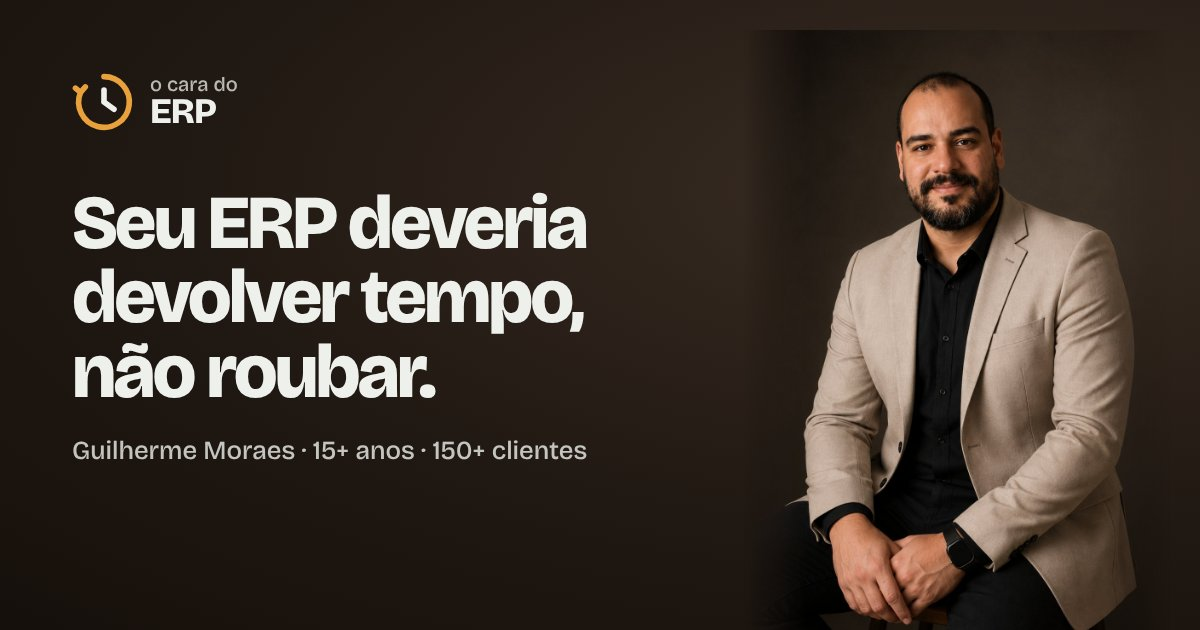
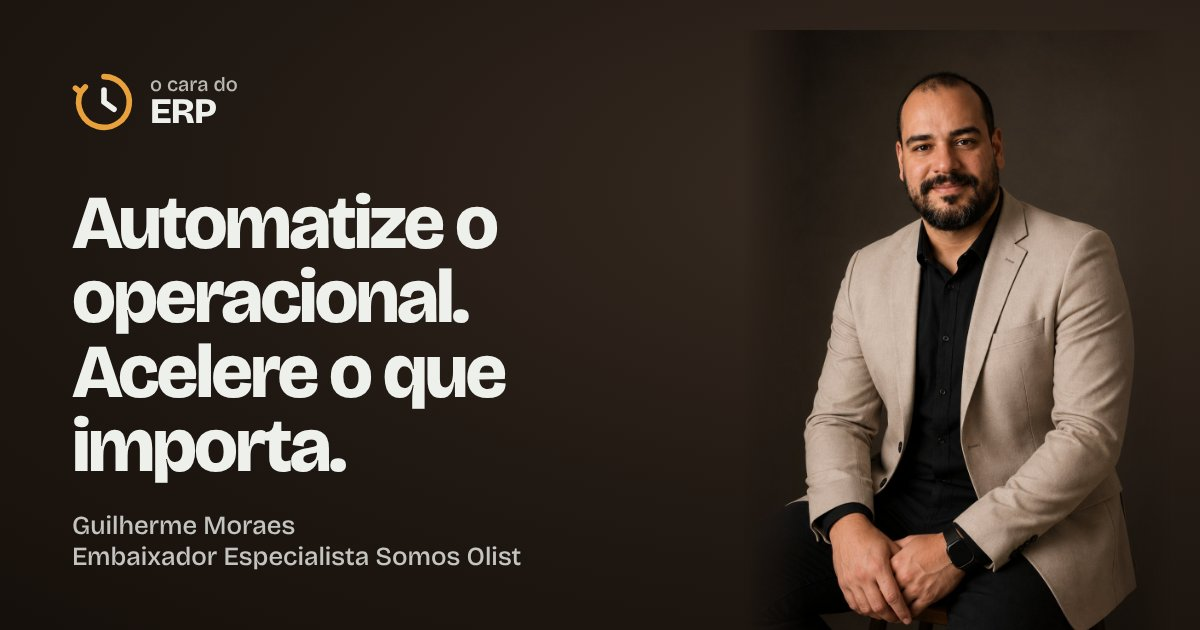
Add files via upload

diff --git a/index.html b/index.html
@@ -7,14 +7,14 @@
 <meta charset="utf-8">
 <meta name="viewport" content="width=device-width, initial-scale=1">
 <title>O Cara do ERP · Guilherme Moraes | Implantação e migração de ERP, lojas virtuais e marketplaces</title>
-<meta name="description" content="Guilherme Moraes, O Cara do ERP: mais de 15 anos e 150 clientes em implantação, migração, parametrização e treinamento de ERP, lojas virtuais e marketplaces. Parceiro Certificado e Embaixador Somos Olist.">
+<meta name="description" content="Guilherme Moraes, O Cara do ERP: mais de 15 anos e 150 clientes em implantação, migração, parametrização e treinamento de ERP, lojas virtuais e marketplaces. Parceiro Certificado e Embaixador Especialista Somos Olist.">
 <link rel="canonical" href="https://www.ocaradoerp.com.br/">
 <meta name="theme-color" content="#201812">
 <meta property="og:type" content="website">
 <meta property="og:locale" content="pt_BR">
 <meta property="og:url" content="https://www.ocaradoerp.com.br/">
 <meta property="og:title" content="O Cara do ERP · Guilherme Moraes">
-<meta property="og:description" content="Guilherme Moraes, O Cara do ERP: mais de 15 anos e 150 clientes em implantação, migração, parametrização e treinamento de ERP, lojas virtuais e marketplaces. Parceiro Certificado e Embaixador Somos Olist.">
+<meta property="og:description" content="Guilherme Moraes, O Cara do ERP: mais de 15 anos e 150 clientes em implantação, migração, parametrização e treinamento de ERP, lojas virtuais e marketplaces. Parceiro Certificado e Embaixador Especialista Somos Olist.">
 <meta property="og:image" content="https://www.ocaradoerp.com.br/assets/img/og-ocaradoerp.jpg">
 <meta property="og:image:width" content="1200">
 <meta property="og:image:height" content="630">
@@ -153,7 +153,6 @@
     <nav aria-label="Principal">
       <a href="#servicos">Serviços</a>
       <a href="#por-que-olist">Sistema ERP da Olist</a>
-      <a href="#kit">Kit de teste</a>
       <a href="#comunidade">Comunidade</a>
       <a class="btn btn-zap" href="https://wa.me/5516999864902" data-zap="topo"><svg aria-hidden="true"><use href="#i-zap"/></svg>Fale comigo</a>
     </nav>
@@ -164,9 +163,19 @@
   <section class="hero" style="padding:0">
     <div class="wrap">
       <div class="hero-texto">
+        <p class="titulo-parceiro"><svg aria-hidden="true" viewBox="0 0 24 24"><path d="M5 12.5l4.2 4.2L19 7" fill="none" stroke="currentColor" stroke-width="2.6" stroke-linecap="round" stroke-linejoin="round"/></svg>Embaixador Especialista Somos Olist</p>
+        <div class="frases" data-banner>
+          <h1 class="frase ativa">Automatize o operacional. Acelere o que importa.</h1>
+          <p class="frase" aria-hidden="true">Seu ERP no automático. Seu time focado em vender.</p>
+          <p class="frase" aria-hidden="true">Processos automáticos. Operação no ritmo das vendas.</p>
+        </div>
+        <div class="pontos" role="group" aria-label="Trocar frase do banner">
+          <button type="button" class="ativo" aria-label="Frase 1 de 3" aria-pressed="true"></button>
+          <button type="button" aria-label="Frase 2 de 3" aria-pressed="false"></button>
+          <button type="button" aria-label="Frase 3 de 3" aria-pressed="false"></button>
+        </div>
         <p class="origem" id="origem" hidden></p>
-        <h1>Seu ERP deveria devolver tempo, não roubar.</h1>
-        <p class="lead">Sou Guilherme Moraes, o Cara do ERP. Implanto, migro e organizo ERP, loja virtual e marketplace para que você e sua equipe parem de apagar incêndio e voltem a fazer o que importa: vender.</p>
+        <p class="lead">Sou Guilherme Moraes, o Cara do ERP. Implanto, migro e automatizo ERP, loja virtual e marketplace para que você e sua equipe parem de apagar incêndio e foquem em vender.</p>
         <div class="acoes">
           <a class="btn btn-zap" href="#cotacao"><svg aria-hidden="true"><use href="#i-zap"/></svg>Cotar meu projeto</a>
           <a class="btn btn-linha" href="#por-que-olist">Conhecer o Sistema ERP da Olist</a>
@@ -178,10 +187,20 @@
         </div>
       </div>
       <figure class="hero-foto">
-        <picture>
-          <source type="image/webp" srcset="/assets/img/guilherme-moraes-640.webp 640w, /assets/img/guilherme-moraes-1000.webp 1000w" sizes="(max-width:860px) 380px, 520px">
-          <img src="/assets/img/guilherme-moraes-1000.jpg" width="1000" height="1502" alt="Guilherme Moraes, o Cara do ERP, sentado, de blazer bege e camisa preta" fetchpriority="high">
-        </picture>
+        <div class="fotos">
+          <picture class="ativa">
+            <source type="image/webp" srcset="/assets/img/guilherme-moraes-640.webp 640w, /assets/img/guilherme-moraes-1000.webp 1000w" sizes="(max-width:860px) 380px, 520px">
+            <img src="/assets/img/guilherme-moraes-1000.jpg" width="1000" height="1502" alt="Guilherme Moraes, o Cara do ERP, sentado, de blazer bege e camisa preta" fetchpriority="high">
+          </picture>
+          <picture class="">
+            <source type="image/webp" srcset="/assets/img/guilherme-moraes-azul-640.webp 640w, /assets/img/guilherme-moraes-azul-1000.webp 975w" sizes="(max-width:860px) 380px, 520px">
+            <img src="/assets/img/guilherme-moraes-azul-1000.jpg" width="975" height="1524" alt="Guilherme Moraes de blazer azul-marinho e camisa branca" loading="lazy">
+          </picture>
+          <picture class="">
+            <source type="image/webp" srcset="/assets/img/guilherme-moraes-grafite-640.webp 640w, /assets/img/guilherme-moraes-grafite-1000.webp 975w" sizes="(max-width:860px) 380px, 520px">
+            <img src="/assets/img/guilherme-moraes-grafite-1000.jpg" width="975" height="1524" alt="Guilherme Moraes de blazer grafite e camisa preta" loading="lazy">
+          </picture>
+        </div>
         <figcaption><b>Guilherme Moraes</b>Especialista em implantação de ERP, lojas virtuais e marketplaces</figcaption>
       </figure>
     </div>
@@ -317,7 +336,7 @@
         </div>
         <a class="btn btn-escuro" href="https://wa.me/5516999864902?text=Ol%C3%A1%2C%20Guilherme!%20Quero%20falar%20sobre%20minha%20loja%20na%20Shoppub." data-zap="shoppub"><svg aria-hidden="true"><use href="#i-zap"/></svg>Falar sobre Shoppub</a>
       </div>
-      <div class="aviso-selo"><span class="selo"><picture><source type="image/webp" srcset="/assets/img/selo-parceiro-certificado-olist.webp"><img src="/assets/img/selo-parceiro-certificado-olist.png" width="486" height="196" alt="Selo Olist Parceiro Certificado" loading="lazy"></picture></span><p class="aviso">Sou Parceiro Certificado e Embaixador Somos Olist, e parceiro da Loja Integrada. As condições valem para contratações feitas pelos links acima, enquanto estiverem vigentes, e podem mudar conforme as regras de cada empresa.</p></div>
+      <div class="aviso-selo"><span class="selo"><picture><source type="image/webp" srcset="/assets/img/selo-parceiro-certificado-olist.webp"><img src="/assets/img/selo-parceiro-certificado-olist.png" width="486" height="196" alt="Selo Olist Parceiro Certificado" loading="lazy"></picture></span><p class="aviso">Sou Parceiro Certificado e Embaixador Especialista Somos Olist, e parceiro da Loja Integrada. As condições valem para contratações feitas pelos links acima, enquanto estiverem vigentes, e podem mudar conforme as regras de cada empresa.</p></div>
     </div>
   </section>
 

diff --git a/tiny/index.html b/tiny/index.html
@@ -7,14 +7,14 @@
 <meta charset="utf-8">
 <meta name="viewport" content="width=device-width, initial-scale=1">
 <title>Especialista em Tiny e Sistema ERP da Olist | O Cara do ERP</title>
-<meta name="description" content="Guilherme Moraes, O Cara do ERP: implantação, organização de conta e treinamento no Sistema ERP da Olist, o antigo Tiny. Parceiro Certificado e Embaixador Somos Olist.">
+<meta name="description" content="Guilherme Moraes, O Cara do ERP: implantação, organização de conta e treinamento no Sistema ERP da Olist, o antigo Tiny. Parceiro Certificado e Embaixador Especialista Somos Olist.">
 <link rel="canonical" href="https://www.ocaradoerp.com.br/tiny/">
 <meta name="theme-color" content="#201812">
 <meta property="og:type" content="website">
 <meta property="og:locale" content="pt_BR">
 <meta property="og:url" content="https://www.ocaradoerp.com.br/tiny/">
 <meta property="og:title" content="Especialista em Tiny e Sistema ERP da Olist">
-<meta property="og:description" content="Guilherme Moraes, O Cara do ERP: implantação, organização de conta e treinamento no Sistema ERP da Olist, o antigo Tiny. Parceiro Certificado e Embaixador Somos Olist.">
+<meta property="og:description" content="Guilherme Moraes, O Cara do ERP: implantação, organização de conta e treinamento no Sistema ERP da Olist, o antigo Tiny. Parceiro Certificado e Embaixador Especialista Somos Olist.">
 <meta property="og:image" content="https://www.ocaradoerp.com.br/assets/img/og-ocaradoerp.jpg">
 <meta property="og:image:width" content="1200">
 <meta property="og:image:height" content="630">
@@ -113,7 +113,6 @@
     <nav aria-label="Principal">
       <a href="/#servicos">Serviços</a>
       <a href="/#por-que-olist">Sistema ERP da Olist</a>
-      <a href="/#kit">Kit de teste</a>
       <a href="/#comunidade">Comunidade</a>
       <a class="btn btn-zap" href="https://wa.me/5516999864902" data-zap="topo"><svg aria-hidden="true"><use href="#i-zap"/></svg>Fale comigo</a>
     </nav>
@@ -124,6 +123,7 @@
   <section class="hero sub" style="padding:0">
     <div class="wrap">
       <div class="hero-texto">
+        <p class="titulo-parceiro"><svg aria-hidden="true" viewBox="0 0 24 24"><path d="M5 12.5l4.2 4.2L19 7" fill="none" stroke="currentColor" stroke-width="2.6" stroke-linecap="round" stroke-linejoin="round"/></svg>Embaixador Especialista Somos Olist</p>
         <h1>Tiny ou Sistema ERP da Olist: é comigo mesmo.</h1>
         <p class="lead">A Olist comprou o Tiny, e hoje ele é o Sistema ERP da Olist. Se você já usa, eu organizo sua conta para ela render tudo o que pode. Se vai começar, eu implanto do jeito certo desde o primeiro dia.</p>
         <div class="acoes">
@@ -209,7 +209,7 @@
           <a class="btn btn-escuro" href="#contato">Quero uma proposta</a>
         </article>
       </div>
-      <div class="aviso-selo"><span class="selo"><picture><source type="image/webp" srcset="/assets/img/selo-parceiro-certificado-olist.webp"><img src="/assets/img/selo-parceiro-certificado-olist.png" width="486" height="196" alt="Selo Olist Parceiro Certificado" loading="lazy"></picture></span><p class="aviso">Sou Parceiro Certificado e Embaixador Somos Olist. As condições valem para contratações feitas pelo link de parceiro, enquanto estiverem vigentes, e podem mudar conforme as regras da Olist.</p></div>
+      <div class="aviso-selo"><span class="selo"><picture><source type="image/webp" srcset="/assets/img/selo-parceiro-certificado-olist.webp"><img src="/assets/img/selo-parceiro-certificado-olist.png" width="486" height="196" alt="Selo Olist Parceiro Certificado" loading="lazy"></picture></span><p class="aviso">Sou Parceiro Certificado e Embaixador Especialista Somos Olist. As condições valem para contratações feitas pelo link de parceiro, enquanto estiverem vigentes, e podem mudar conforme as regras da Olist.</p></div>
     </div>
   </section>
 

diff --git a/migracao-bling/index.html b/migracao-bling/index.html
@@ -121,7 +121,6 @@
     <nav aria-label="Principal">
       <a href="/#servicos">Serviços</a>
       <a href="/#por-que-olist">Sistema ERP da Olist</a>
-      <a href="/#kit">Kit de teste</a>
       <a href="/#comunidade">Comunidade</a>
       <a class="btn btn-zap" href="https://wa.me/5516999864902" data-zap="topo"><svg aria-hidden="true"><use href="#i-zap"/></svg>Fale comigo</a>
     </nav>
@@ -132,6 +131,7 @@
   <section class="hero sub" style="padding:0">
     <div class="wrap">
       <div class="hero-texto">
+        <p class="titulo-parceiro"><svg aria-hidden="true" viewBox="0 0 24 24"><path d="M5 12.5l4.2 4.2L19 7" fill="none" stroke="currentColor" stroke-width="2.6" stroke-linecap="round" stroke-linejoin="round"/></svg>Embaixador Especialista Somos Olist</p>
         <h1>Do Bling para o Sistema ERP da Olist, sem perder nada pelo caminho.</h1>
         <p class="lead">Migro produtos, clientes, pedidos e estoque para o Sistema ERP da Olist, confiro tudo antes da virada e deixo sua equipe treinada para operar no sistema novo.</p>
         <div class="acoes">
@@ -219,7 +219,7 @@
           <a class="btn btn-escuro" href="#contato">Quero uma proposta</a>
         </article>
       </div>
-      <div class="aviso-selo"><span class="selo"><picture><source type="image/webp" srcset="/assets/img/selo-parceiro-certificado-olist.webp"><img src="/assets/img/selo-parceiro-certificado-olist.png" width="486" height="196" alt="Selo Olist Parceiro Certificado" loading="lazy"></picture></span><p class="aviso">Sou Parceiro Certificado e Embaixador Somos Olist. As condições valem para contratações feitas pelo link de parceiro, enquanto estiverem vigentes, e podem mudar conforme as regras da Olist.</p></div>
+      <div class="aviso-selo"><span class="selo"><picture><source type="image/webp" srcset="/assets/img/selo-parceiro-certificado-olist.webp"><img src="/assets/img/selo-parceiro-certificado-olist.png" width="486" height="196" alt="Selo Olist Parceiro Certificado" loading="lazy"></picture></span><p class="aviso">Sou Parceiro Certificado e Embaixador Especialista Somos Olist. As condições valem para contratações feitas pelo link de parceiro, enquanto estiverem vigentes, e podem mudar conforme as regras da Olist.</p></div>
     </div>
   </section>
 

diff --git a/assets/js/site.js b/assets/js/site.js
@@ -97,6 +97,32 @@
     window.open('https://wa.me/' + ZAP + '?text=' + encodeURIComponent(linhas.join('\n')), '_blank', 'noopener');
   });
 
+  // Banner do topo: troca suave de frase e foto
+  var banner = document.querySelector('[data-banner]');
+  if (banner) {
+    var frases = banner.querySelectorAll('.frase');
+    var fotos = document.querySelectorAll('.fotos > picture');
+    var pontos = document.querySelectorAll('.pontos button');
+    var atual = 0, timer = null, pausado = false;
+    var reduzir = window.matchMedia('(prefers-reduced-motion: reduce)').matches;
+    var mostrar = function(i){
+      atual = (i + frases.length) % frases.length;
+      frases.forEach(function(f, k){ f.classList.toggle('ativa', k === atual); f.setAttribute('aria-hidden', k === atual ? 'false' : 'true'); });
+      fotos.forEach(function(f, k){ f.classList.toggle('ativa', k === atual); });
+      pontos.forEach(function(b, k){ b.classList.toggle('ativo', k === atual); b.setAttribute('aria-pressed', k === atual ? 'true' : 'false'); });
+    };
+    var parar = function(){ clearInterval(timer); timer = null; };
+    var iniciar = function(){ if (reduzir || pausado || timer) return; timer = setInterval(function(){ mostrar(atual + 1); }, 6500); };
+    pontos.forEach(function(b, k){ b.addEventListener('click', function(){ mostrar(k); pausado = true; parar(); rastrear('banner_frase', {frase: k + 1}); }); });
+    [banner, document.querySelector('.pontos')].forEach(function(el){
+      el.addEventListener('mouseenter', parar); el.addEventListener('mouseleave', iniciar);
+      el.addEventListener('focusin', parar);
+      el.addEventListener('touchstart', function(){ pausado = true; parar(); }, {passive: true});
+    });
+    document.addEventListener('visibilitychange', function(){ document.hidden ? parar() : iniciar(); });
+    iniciar();
+  }
+
   // Voltar ao topo
   var topo = document.querySelector('.topo-btn');
   if (topo) {

diff --git a/assets/css/site.css b/assets/css/site.css
@@ -296,3 +296,22 @@ footer .links-int a{opacity:.9}
 .provas .selo img{height:52px}
 div.arquivo{grid-template-columns:56px 1fr}
 .kit .cab .btn{justify-self:start;margin-top:.4rem}
+
+/* título de parceiro no topo */
+.titulo-parceiro{display:inline-flex;align-items:center;gap:.45rem;font-weight:700;font-size:1rem;color:var(--ambar-claro);margin-bottom:1.2rem;letter-spacing:.005em}
+.titulo-parceiro svg{width:1.15em;height:1.15em;flex:none;background:var(--ambar);color:var(--cafe);border-radius:50%;padding:.12em}
+.hero .origem{margin:1.2rem 0 0}
+
+/* banner do topo: 3 frases + 3 fotos */
+.frases{display:grid}
+.frases>.frase{grid-area:1/1;margin:0;opacity:0;transition:opacity .9s ease;font-size:clamp(2.6rem,6.4vw,5.4rem);font-weight:800;letter-spacing:-.035em;line-height:.98;max-width:13ch}
+.frases>.frase.ativa{opacity:1}
+.pontos{display:flex;gap:.25rem;margin:1rem 0 0 -10px}
+.pontos button{background:none;border:0;padding:12px 10px;cursor:pointer}
+.pontos button::before{content:"";display:block;width:22px;height:5px;border-radius:3px;background:rgba(238,240,236,.3);transition:width .3s,background-color .3s}
+.pontos button.ativo::before{width:40px;background:var(--ambar)}
+.fotos{display:grid;align-items:end}
+.fotos>picture{grid-area:1/1;opacity:0;transition:opacity .9s ease}
+.fotos>picture.ativa{opacity:1}
+.frases>.frase{max-width:15ch;font-size:clamp(2.5rem,5.8vw,4.9rem)}
+.frases>.frase{font-size:clamp(2.4rem,5.2vw,4.4rem)}
